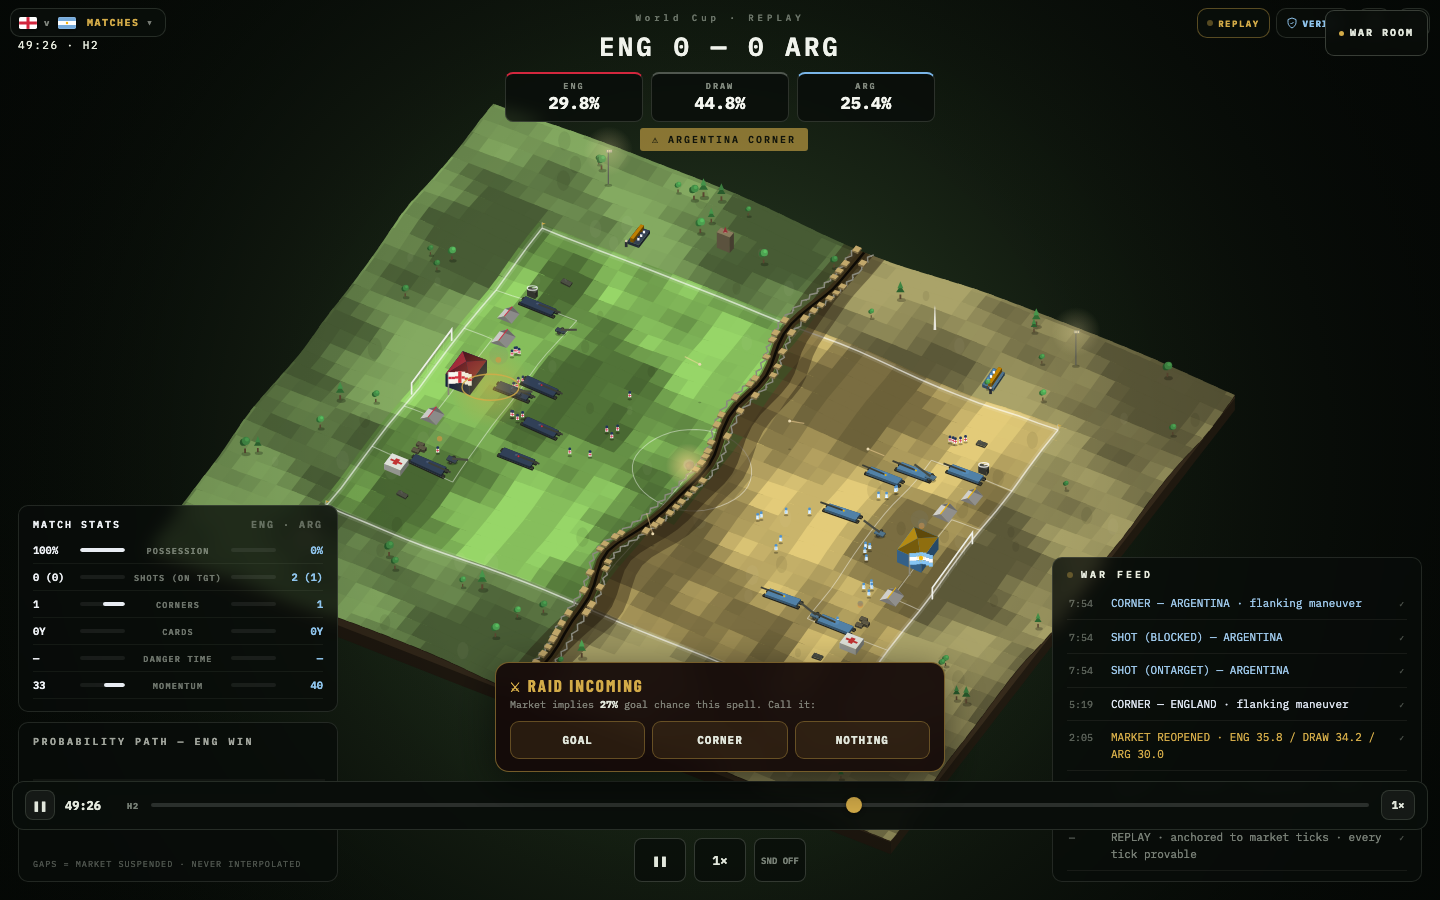
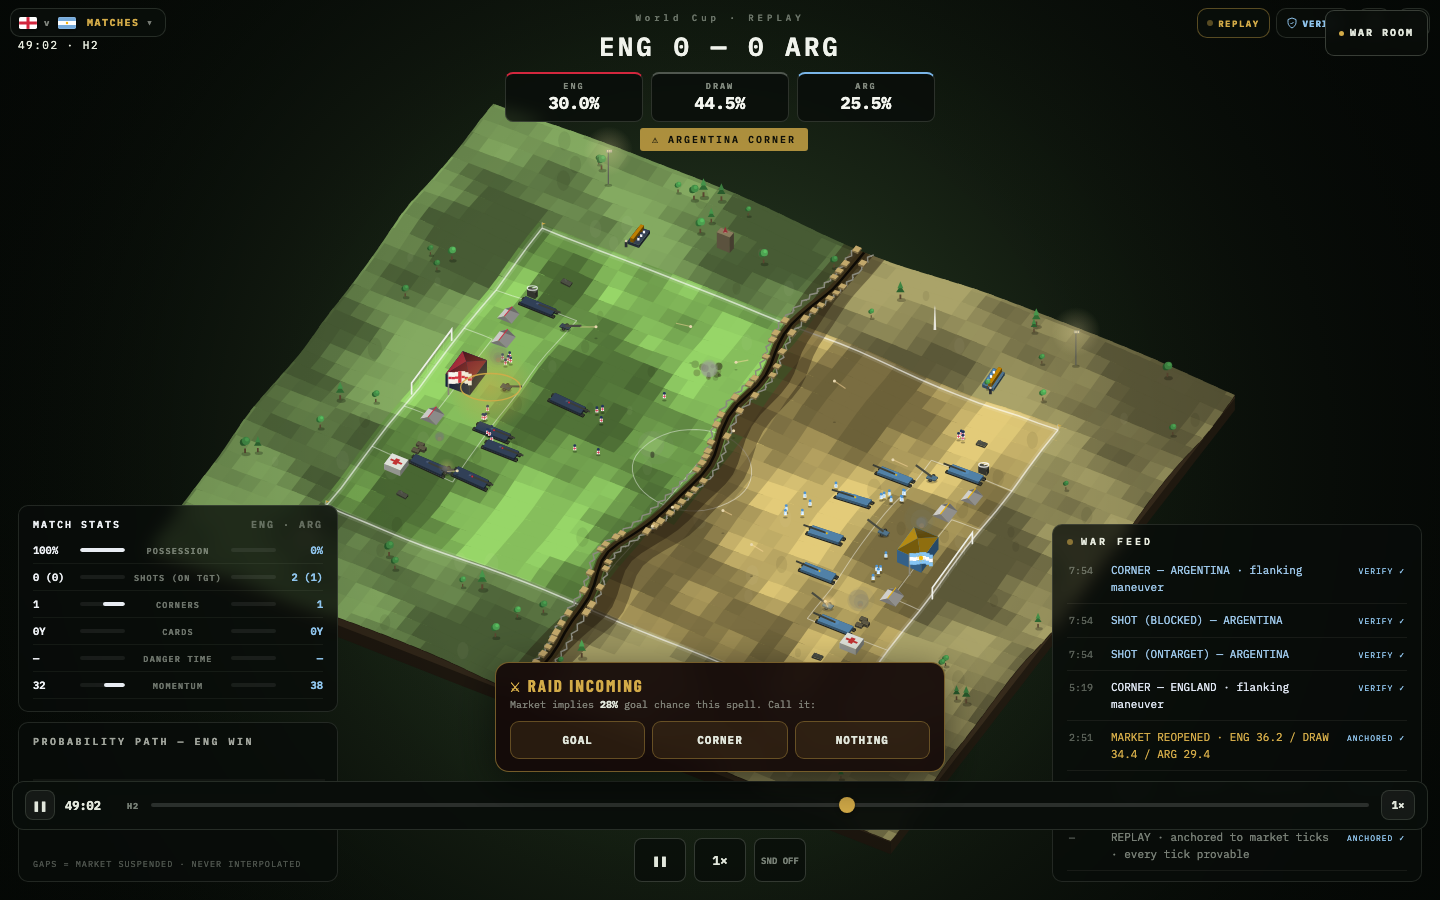
feat(inspect): every war-feed event is tappable → its stat leaf → Merkle proof
- feed rows carry the event seq; tapping opens the inspect sheet for THAT event
  (e.g. a goal proves key1=1 — the exact scoreboard number, PROVEN AUTHENTIC on-chain)
- window.BATTLE.stateAtSeq + inspect event routing; rows show a VERIFY ✓ affordance
- delivers the brief's 'tap the flare → the actual payload' trust-artifact vision
- full journey + 36 tests green, zero errors

diff --git a/index.html b/index.html
@@ -81,10 +81,10 @@ input[type=range]::-moz-range-thumb{width:16px;height:16px;border:none;border-ra
       <sc-if value="{{ overlayFeed }}" hint-placeholder-val="{{ true }}">
         <div style="flex:1; overflow-y:auto; padding: 4px 16px 12px; touch-action:pan-y;">
           <sc-for list="{{ feedRows }}" as="row" hint-placeholder-count="3">
-            <div style="display:flex; align-items:baseline; gap:10px; padding:9px 2px; border-bottom:1px solid rgba(200,210,190,.08); font-size:11px; animation:riseIn .3s both;">
+            <div onClick="{{ row.onTap }}" style="display:flex; align-items:baseline; gap:10px; padding:9px 2px; border-bottom:1px solid rgba(200,210,190,.08); font-size:11px; animation:riseIn .3s both; cursor:pointer; border-radius:6px;">
               <span style="color:rgba(210,220,205,.4); min-width:32px; font-size:10px;">{{ row.min }}</span>
               <span style="flex:1; line-height:1.5; color: {{ row.color }};">{{ row.text }}</span>
-              <span style="font-size:8px; letter-spacing:1px; color:rgba(210,220,205,.32); white-space:nowrap;">ANCHORED ✓</span>
+              <span style="font-size:8px; letter-spacing:1px; color:#8fc4ec; white-space:nowrap;">{{ row.verifyMark }}</span>
             </div>
           </sc-for>
         </div>
@@ -165,10 +165,10 @@ input[type=range]::-moz-range-thumb{width:16px;height:16px;border:none;border-ra
       </div>
       <div style="flex:1; overflow-y:auto; min-height:120px;">
         <sc-for list="{{ feedRows }}" as="row" hint-placeholder-count="3">
-          <div style="display:flex; align-items:baseline; gap:10px; padding:8px 2px; border-bottom:1px solid rgba(200,210,190,.08); font-size:11px; animation:riseIn .3s both;">
+          <div onClick="{{ row.onTap }}" style="display:flex; align-items:baseline; gap:10px; padding:8px 2px; border-bottom:1px solid rgba(200,210,190,.08); font-size:11px; animation:riseIn .3s both; cursor:pointer;">
             <span style="color:rgba(210,220,205,.4); min-width:32px; font-size:10px;">{{ row.min }}</span>
             <span style="flex:1; line-height:1.5; color: {{ row.color }};">{{ row.text }}</span>
-            <span style="font-size:8px; letter-spacing:1px; color:rgba(210,220,205,.32); white-space:nowrap;">✓</span>
+            <span style="font-size:8px; letter-spacing:1px; color:#8fc4ec; white-space:nowrap;">{{ row.verifyMark }}</span>
           </div>
         </sc-for>
       </div>
@@ -317,6 +317,12 @@ class Component extends DCLogic {
         if (!r.ok) throw new Error(`state ${r.status}`);
         return r.json();
       },
+      stateAtSeq: async (seq) => {
+        const fx = this.state.fixtureId;
+        const r = await fetch(`${this._baseUrl}/v1/fixtures/${fx}/state?seq=${seq}`);
+        if (!r.ok) throw new Error(`state ${r.status}`);
+        return r.json();
+      },
       // current wall-clock ts of the replay head (for proof/state lookups + share links)
       headTs: () => (this.driver && this.driver.ts) || (this.model ? this.model.firstTs : 0),
       flag: (name, opts) => this._teams ? this._teams.flagSvg(name, opts) : '',
@@ -457,6 +463,7 @@ class Component extends DCLogic {
     }
     if (this._evSubs) for (const cb of this._evSubs) { try { cb(e); } catch (_) {} }
     this.engine && this.engine.event(e);
+    this._evSeq = (e.seq != null) ? e.seq : null; // feed rows spawned below carry this seq → tappable
     const HA = this.state.homeAbbr, AA = this.state.awayAbbr;
     const nm = (s) => s === 'home' ? this.state.homeName : this.state.awayName;
     switch (e.kind) {
@@ -498,11 +505,16 @@ class Component extends DCLogic {
         break;
       }
     }
+    this._evSeq = null;
+  }
+  _inspectSeq(seq) {
+    if (seq == null) return;
+    if (this._evSubs) for (const cb of this._evSubs) { try { cb({ kind: 'inspect', seq }); } catch (_) {} }
   }
 
-  _row(text, tone) {
+  _row(text, tone, seq = this._evSeq) {
     const colors = { home: '#dfe6f2', away: '#9cc6e8', gold: '#d3ab48', dim: 'rgba(210,220,205,.55)' };
-    const row = { id: ++this._seq, min: this._lastF ? this._clockFmt(this._lastF.clock).split(' ')[0] : '—', text, color: colors[tone] || '#dfe4d8' };
+    const row = { id: ++this._seq, min: this._lastF ? this._clockFmt(this._lastF.clock).split(' ')[0] : '—', text, color: colors[tone] || '#dfe4d8', seq: seq ?? null };
     this.setState(s => ({ feed: [row, ...s.feed].slice(0, 42) }));
   }
   _banner(b) {
@@ -625,7 +637,8 @@ class Component extends DCLogic {
       suspended: s.suspended, suspendSecs: s.suspendSecs,
       probBoxes,
       threatShow: !!s.threatText, threatText: s.threatText,
-      feedRows: s.feed, statRows,
+      feedRows: s.feed.map(r => ({ ...r, verifyMark: r.seq != null ? 'VERIFY ✓' : 'ANCHORED ✓', onTap: r.seq != null ? () => this._inspectSeq(r.seq) : (() => {}) })),
+      statRows,
       headerLabel: `${s.competition} · ${modeLive ? 'LIVE' : 'REPLAY'}`,
       statHomeName: s.homeName, statAwayName: s.awayName, statAbbrPair: `${s.homeAbbr} · ${s.awayAbbr}`,
       loading: s.loading, loadError: s.loadError,

diff --git a/app/console.jsx b/app/console.jsx
@@ -164,14 +164,14 @@
   }
 
   // ── inspect + Merkle proof walk ───────────────────────────────────────────
-  function InspectSheet({ onClose }) {
+  function InspectSheet({ onClose, seq }) {
     const [phase, setPhase] = useState('loading'); // loading|state|proof|error
     const [state, setState] = useState(null);
     const [proof, setProof] = useState(null);
     const [err, setErr] = useState(null);
     useEffect(() => {
-      const ts = B().headTs ? B().headTs() : 0;
-      B().stateAtTs(ts).then((st) => { setState(st); setPhase('state'); }).catch((e) => { setErr(String(e.message || e)); setPhase('error'); });
+      const load = (seq != null && B().stateAtSeq) ? B().stateAtSeq(seq) : B().stateAtTs(B().headTs ? B().headTs() : 0);
+      load.then((st) => { setState(st); setPhase('state'); }).catch((e) => { setErr(String(e.message || e)); setPhase('error'); });
     }, []);
     const verify = async () => {
       setPhase('proof-loading');
@@ -384,8 +384,14 @@
   function BattleConsole() {
     const [ready, setReady] = useState(!!window.BATTLE);
     const [sheet, setSheet] = useState(null);
+    const [inspectSeq, setInspectSeq] = useState(null);
     const [wallet, setWallet] = useState(() => { try { return localStorage.getItem('bf_wallet') || null; } catch { return null; } });
     const [mode, setMode] = useState('replay');
+    useEffect(() => {
+      if (!ready || !B().onEvent) return;
+      return B().onEvent((e) => { if (e.kind === 'inspect') { setInspectSeq(e.seq); setSheet('inspect'); B().setPaused && B().setPaused(true); } });
+    }, [ready]);
+    const openSheet = (s) => { if (s === 'inspect') setInspectSeq(null); setSheet(s); };
     useEffect(() => {
       if (ready) return;
       const iv = setInterval(() => { if (window.BATTLE) { clearInterval(iv); setReady(true); } }, 120);
@@ -404,11 +410,11 @@
     const connect = (w) => { setWallet(w); try { w ? localStorage.setItem('bf_wallet', w) : localStorage.removeItem('bf_wallet'); } catch {} };
     return (
       <React.Fragment>
-        <TopChrome onOpen={setSheet} mode={mode} wallet={wallet} />
+        <TopChrome onOpen={openSheet} mode={mode} wallet={wallet} />
         <Scrubber />
         <PredictAlong wallet={wallet} />
         {sheet === 'picker' && <FixturePicker onClose={() => setSheet(null)} />}
-        {sheet === 'inspect' && <InspectSheet onClose={() => setSheet(null)} />}
+        {sheet === 'inspect' && <InspectSheet seq={inspectSeq} onClose={() => setSheet(null)} />}
         {sheet === 'share' && <ShareSheet onClose={() => setSheet(null)} />}
         {sheet === 'wallet' && <WalletSheet onClose={() => setSheet(null)} onConnect={connect} wallet={wallet} />}
       </React.Fragment>
